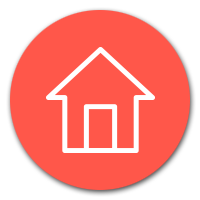
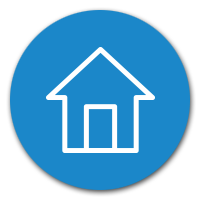
*12월15일 전체 설문조사 완성

diff --git a/public/css/cid_survey.css b/public/css/cid_survey.css
@@ -3,15 +3,15 @@
 /*-----------------------------------*/
 input[type=text]{height:2rem !important;}
 textarea.materialize-textarea{padding:0.2rem 0 !important;}
-[type="radio"]:checked + label:after, [type="radio"].with-gap:checked + label:after{background-color:#ff574a !important;}
-[type="radio"]:checked + label:after, [type="radio"].with-gap:checked + label:before, [type="radio"].with-gap:checked + label:after{border:2px solid #ff574a !important;}
+[type="radio"]:checked + label:after, [type="radio"].with-gap:checked + label:after{background-color:#1b87c9 !important;}
+[type="radio"]:checked + label:after, [type="radio"].with-gap:checked + label:before, [type="radio"].with-gap:checked + label:after{border:2px solid #1b87c9 !important;}
 textarea.materialize-textarea:focus:not([readonly]) {
-  border-bottom: 1px solid #ff574a !important;
-  box-shadow: 0 1px 0 0 #ff574a !important;
+  border-bottom: 1px solid #1b87c9 !important;
+  box-shadow: 0 1px 0 0 #1b87c9 !important;
 }
 input[type=text]:focus:not([readonly]) {
-  border-bottom: 1px solid #ff574a !important;
-  box-shadow: 0 1px 0 0 #ff574a !important;
+  border-bottom: 1px solid #1b87c9 !important;
+  box-shadow: 0 1px 0 0 #1b87c9 !important;
 }
 [type="checkbox"].filled-in:not(:checked) + label:after{
   height:15px !important;
@@ -22,39 +22,42 @@ input[type=text]:focus:not([readonly]) {
   height:15px !important;
   width:15px !important;
   margin:4px !important;	
-  border: 2px solid #ff574a !important;
-  background-color: #ff574a !important;	
+  border: 2px solid #1b87c9 !important;
+  background-color: #1b87c9 !important;	
 }
-[type="checkbox"]:checked + label:before{border-right: 2px solid #ff574a !important;
-    border-bottom: 2px solid #ff574a !important;}
+[type="checkbox"]:checked + label:before{border-right: 2px solid #1b87c9 !important;
+    border-bottom: 2px solid #1b87c9 !important;}
 /*-----------------------------------*/
 form{width:60%;}
 .home-btn{width:100px; margin:20px 0;} 
 .btn-home{width:120px; height:auto; background-color:#ececec; border:2px solid #ddd; border-radius:3px; color:#333; padding:8px; margin:50px 0;}
-.main-banner{width:100%; height:auto; background-color:#ff574a; color:#fff; font-size:18px; padding:50px 0;}
+/*.main-banner{width:100%; height:auto; background-color:#1b87c9; color:#fff; }*/
+.main-banner{width:100%; height:auto; background-image:url("/page_imgs/fixed_img/survey1-bg.png"); background-repeat: no-repeat; background-size:cover; color:#fff; font-size:18px; padding:50px 0;}
 .main-banner img{height:50px;}
 .event{color:#333; margin-top:30px; margin-bottom:15px; padding-left:10px;}
 .survey{height:auto; border:4px solid #ececec; padding:10px 40px 30px 40px;}
-.survey .title{color:#ff574a; font-size:20px;}
+.survey .title{color:#1b87c9; font-size:20px;}
 .thanks{color:#333; font-weight:bold;}
 .submit{margin:50px 0 20px 0; width:300px;}
-.btn-submit{width:120px; height:auto; background-color:#ff574a; border:2px solid #ececec; border-radius:6px; color:#fff; padding:6px; margin:0; text-align:center; margin:40px 0;}
+.btn-submit{width:300px; height:auto; background-color:#1b87c9; border:2px solid #ececec; border-radius:6px; color:#fff; padding:8px; margin:0; text-align:center; margin:40px 0;}
 .info-see{background-color:#f6f6f6; border:1px solid #ddd; border-radius:4px; padding:2px; color:#2d2d2d}
 .big-title{font-size:18px; font-weight:bold; margin:40px 0 20px 0;}
 
 @media all and (max-width:800px) {
 /*-----------------------------------*/
 .container{width:98% !important;}
+.modal{width:96% !important;}
 /*-----------------------------------*/
 form{width:100%;}
 .home-btn{width:80px; margin:10px 0;}
 .btn-home{margin:20px 0;}
-.btn-submit{margin:24px 0;}
-.main-banner{font-size:18px; padding:20px 0;}
+.btn-submit{width:260px; margin:24px 0;}
+.main-banner{font-size:16px; padding:20px 0;}
 .main-banner img{height:40px;}
+.event{margin-top:20px;}
 .survey{ padding:10px 5px;}
 .survey .title{font-size:18px;}
 .thanks{font-size:14px;}
-.submit{margin:30px 0 10px 0; width:260px;}
+.submit{margin:20px 0 10px 0; width:260px;}
 .big-title{margin:30px 0 20px 0;}
 }
